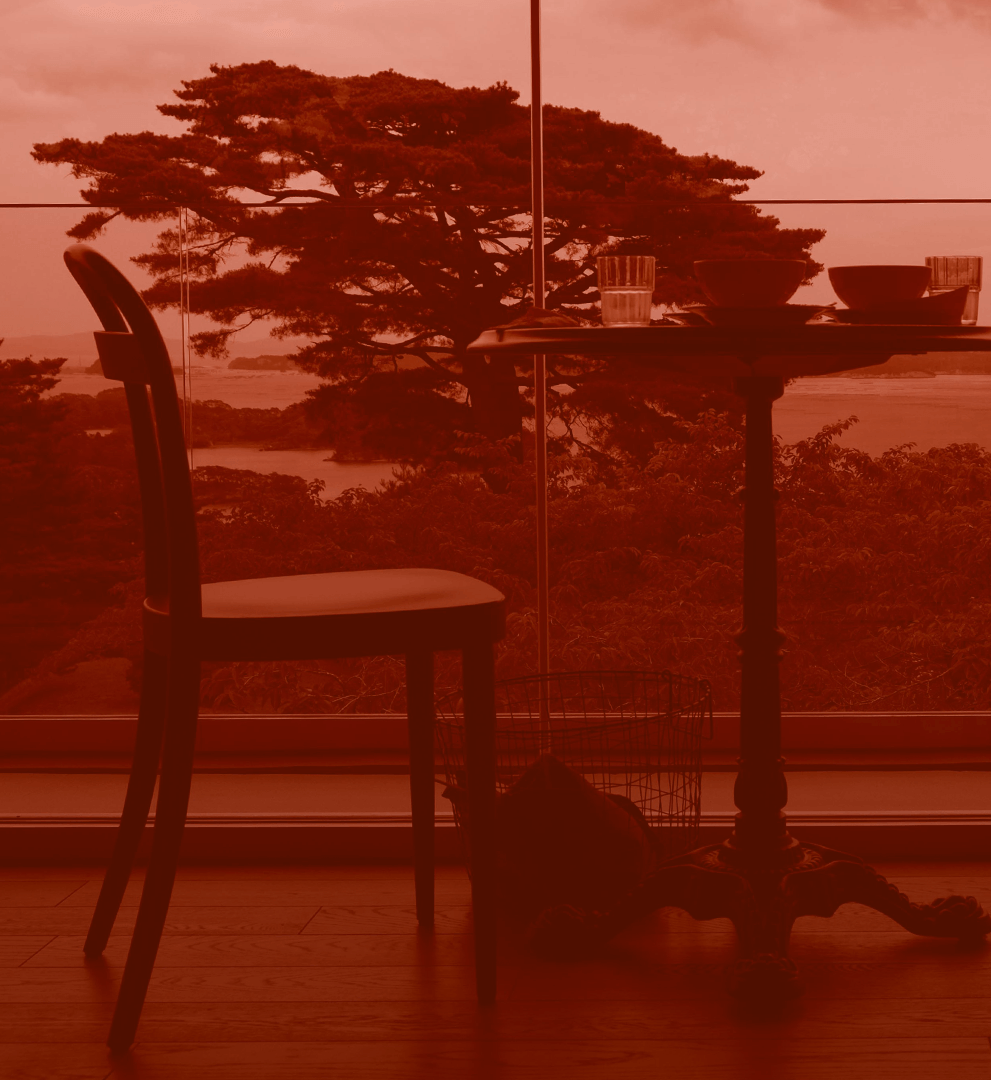
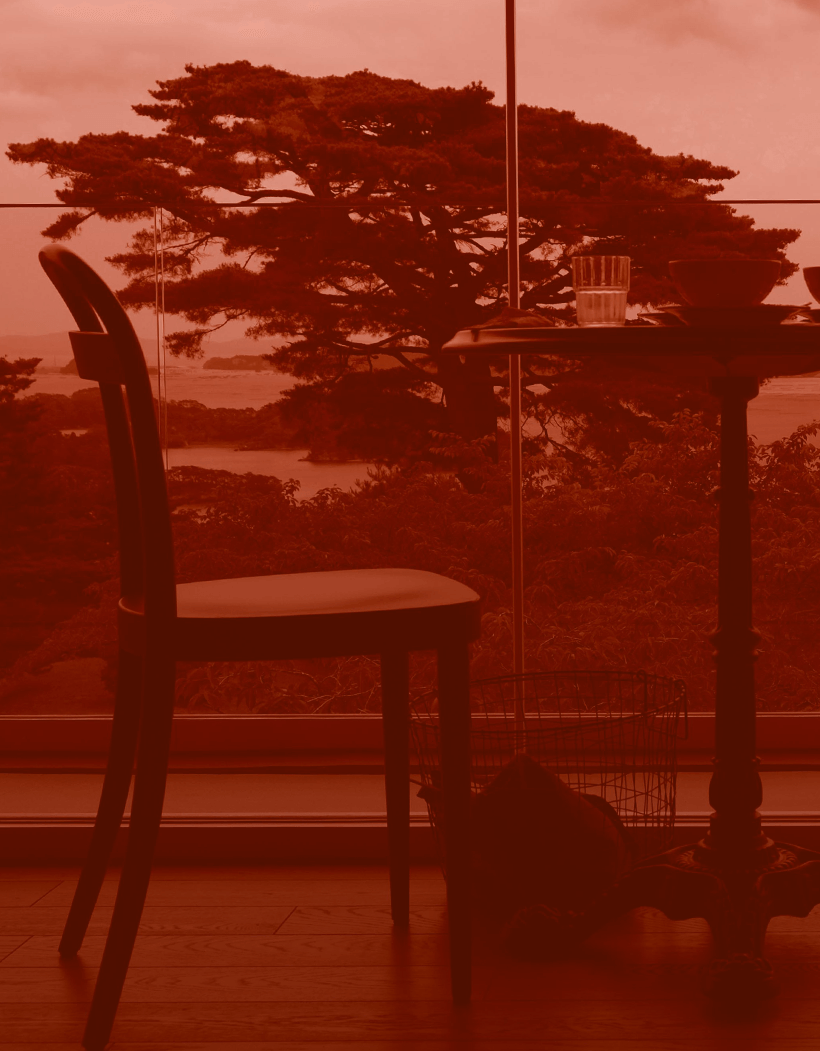
mobile image

diff --git a/css/style.css b/css/style.css
@@ -162,7 +162,7 @@ a.anchor {
 }
 
 
-@media (max-width: 991px) {
+@media (max-width: 880px) {
     .wp {
         background-image: url('../img/wp1-min-mobile.png');
     }
@@ -586,7 +586,7 @@ h3 {
     background-size: 600%;
 }
 
-@media (max-width: 991px) {
+@media (max-width: 800px) {
     .block__two {
         background-image: url('../img/wp2-min-mobile.png');
     }
